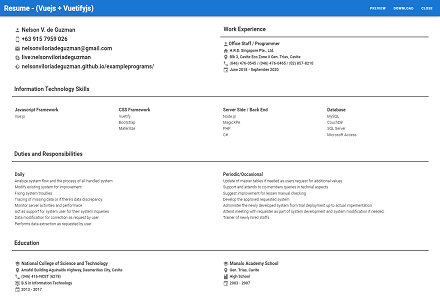
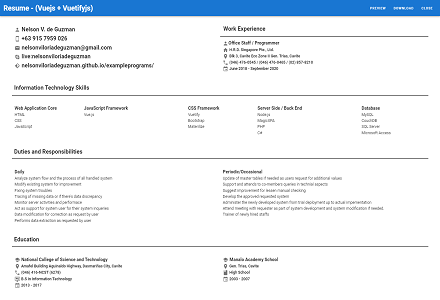
Updated Resume
Added New Info
Reflect the New Info in PDF Preview and Print

diff --git a/pages/resume/js/script.js b/pages/resume/js/script.js
@@ -248,20 +248,22 @@ new Vue({
                 {
                     layout: 'noBorders',
                 table: {
-                    widths:['*','*','*','*'],
-                  body: [[{ text: '\nJavascript Framework ', style:"miniTitleStyle"},
+                    widths:['*','*','*','*','*'],
+                  body: [[{ text: '\nWeb Application Core ', style:"miniTitleStyle"},
+                          { text: '\nJavaScript Framework ', style:"miniTitleStyle"},
                           { text: '\nCSS Framework ', style:"miniTitleStyle"},
                           { text: '\nServer Side / Back End', style:"miniTitleStyle"},
                           { text: '\nDatabase', style:"miniTitleStyle"},
                           ],
                           
-                          [{ text: "Vue.js\n\n", style: 'defaultTextStyle'},
+                          [{ text: "HTML\nCSS\nJavaScript\n\n", style: 'defaultTextStyle'},
+                          { text: "Vue.js\n\n", style: 'defaultTextStyle'},
                           { text: 'Vuetify\nBootstrap\nMaterialize\n\n', style: 'defaultTextStyle'},
                           { text: 'Node.js\nMagicXPA\nPHP\nc#\n\n', style: 'defaultTextStyle'},
                           { text: 'MySQL\nCouchDB\nSQL Server\nMS Access\n\n', style: 'defaultTextStyle'},
                           ],
                           
-                          [{},{},{},{}]
+                          [{},{},{},{},{}]
                           ],
                           
                 },

diff --git a/pages/resume/index.html b/pages/resume/index.html
@@ -66,13 +66,21 @@
             </v-row>
 
             <v-row>
-              <v-col md="3">
+              <v-col md="2">
                 <br>
-                <h3>Javascript Framework</h3>
-                Vue.js<br>
+                <h3>Web Application Core</h3>
+                HTML<br>
+                CSS<br>
+                JavaScript
                 <br>
               </v-col>
               <v-col md="3">
+                <br>
+                <h3>JavaScript Framework</h3>
+                Vue.js<br>
+                <br>
+              </v-col>
+              <v-col md="2">
                 <br>
                 <h3>CSS Framework</h3>
                 Vuetify<br>
@@ -91,7 +99,7 @@
                 <br>
               </v-col>
 
-              <v-col md="3">
+              <v-col md="2">
                 <br>
                 <h3>Database</h3>
                 MySQL<br>
